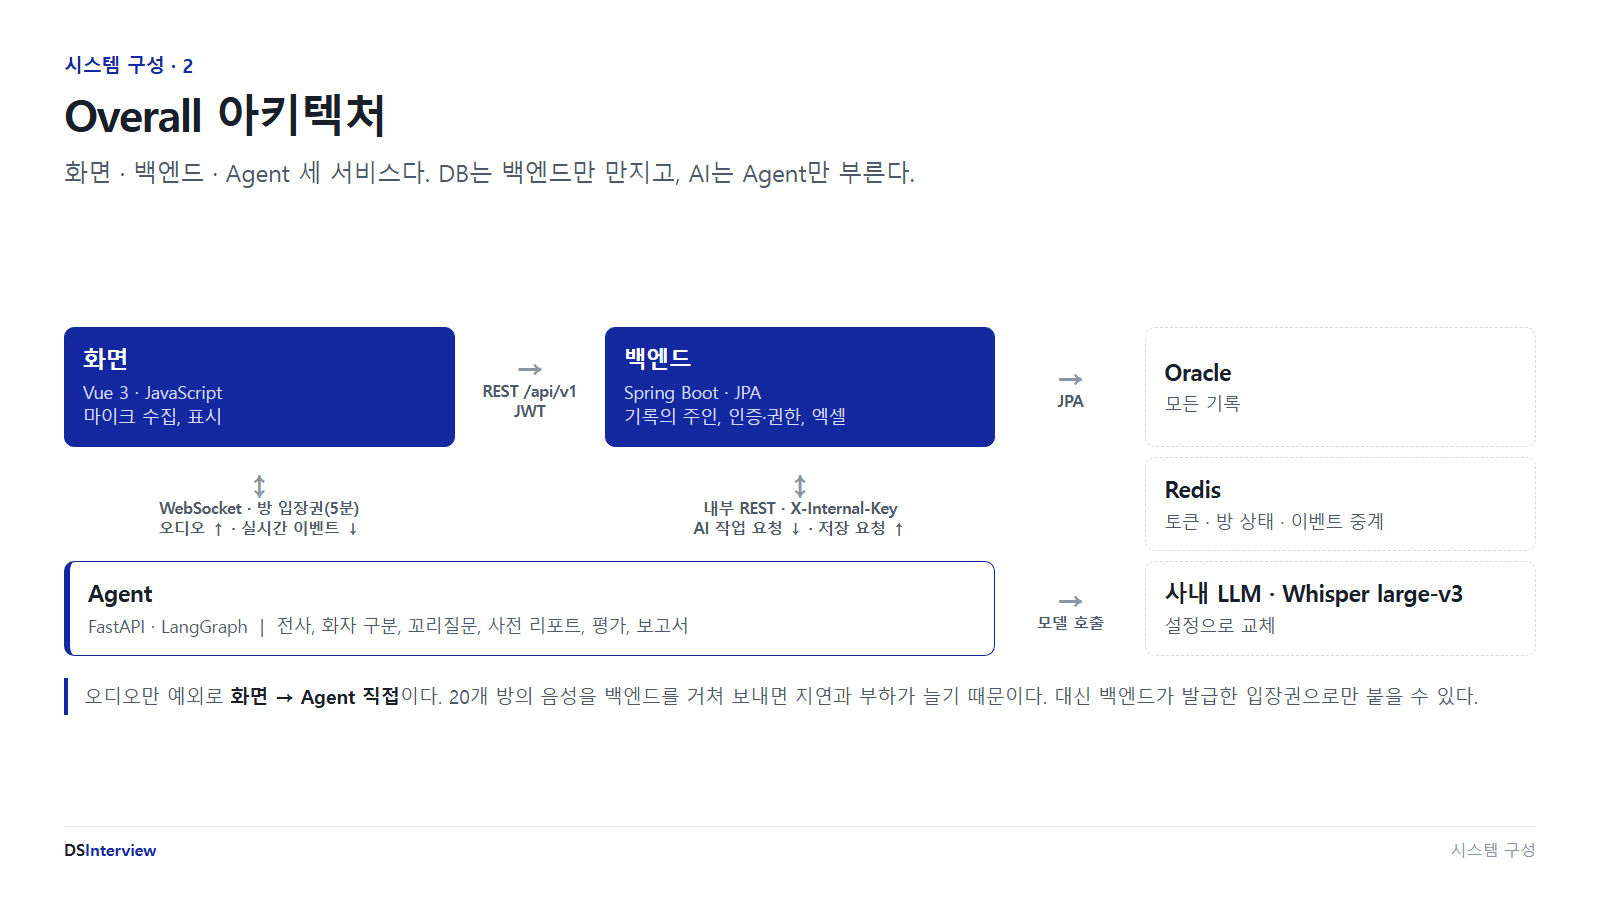
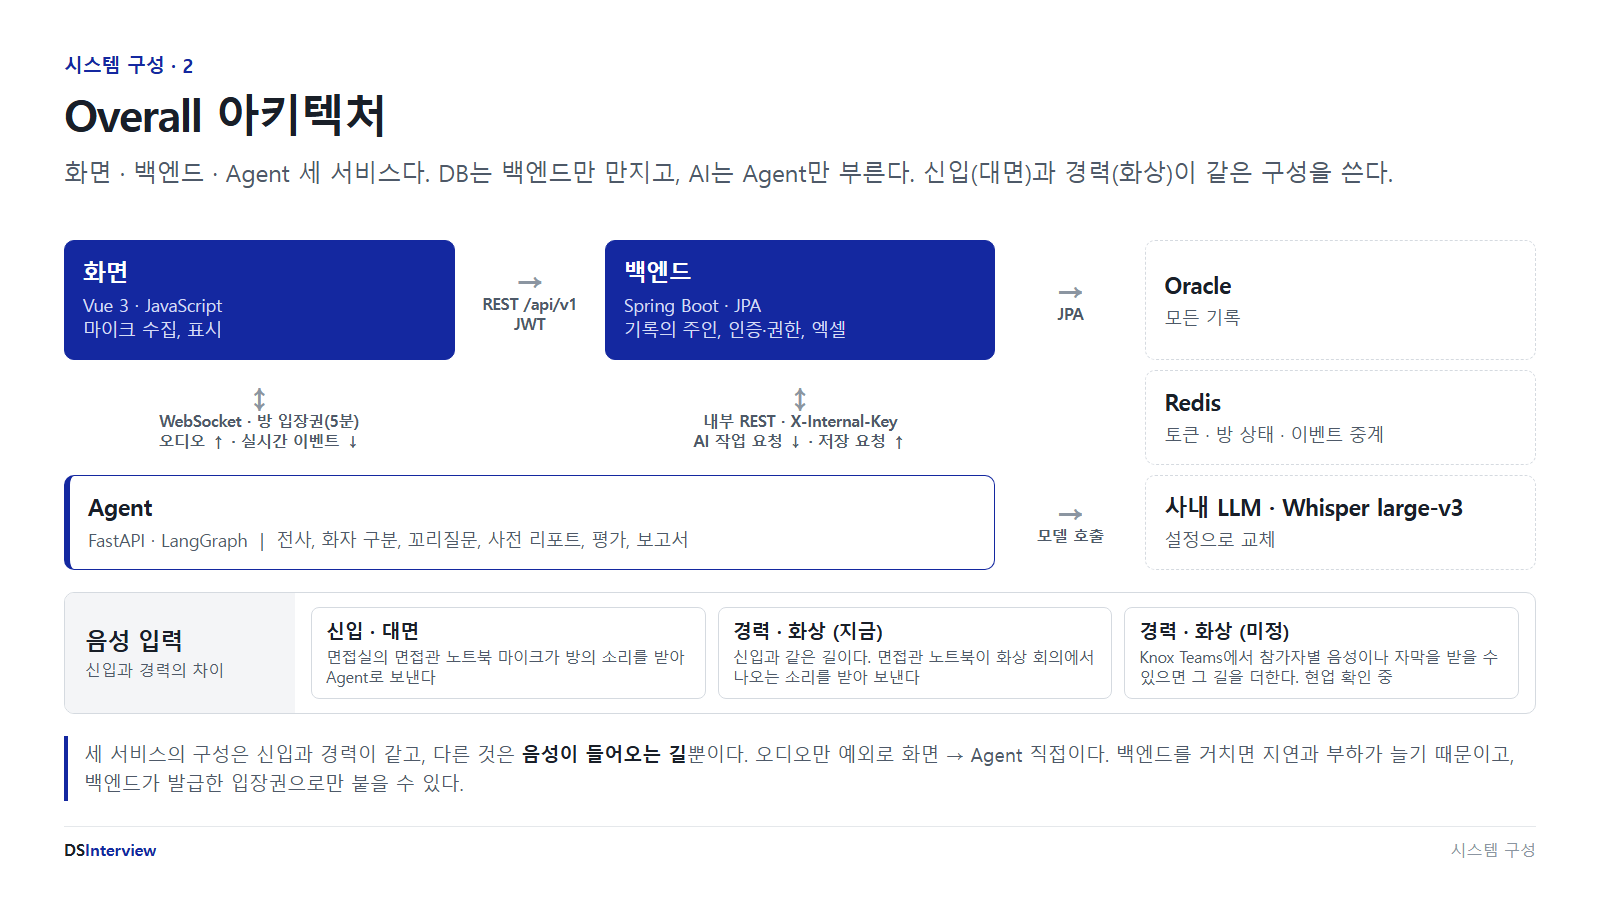
docs: 아키텍처 그림에 신입·경력의 음성 입력 차이를 넣고 화상 면접의 한계를 적는다
- confluence 1-02: 구성은 같고 음성이 들어오는 길만 다르다는 것(신입 대면, 경력 화상 지금, Knox Teams 미정)
- confluence 2-04: Deep Agent가 갖춰야 할 네 가지(계획, 하위 에이전트, 작업 메모, 자세한 지시문)
- 04, 05: 화상 면접은 스피커 소리를 마이크로 다시 받는 방식이라 헤드셋을 쓰면 지원자 목소리가 안 들어온다. 실제 환경에서 확인한 적 없음

diff --git a/confluence/source/gen.py b/confluence/source/gen.py
@@ -147,8 +147,14 @@ arch = ('<div class="grid5">'
         + box('사내 LLM · Whisper large-v3', '설정으로 교체', 'store')
         + '</div>')
 page('s2', G1, '2', 'Overall 아키텍처',
-     '화면 · 백엔드 · Agent 세 서비스다. DB는 백엔드만 만지고, AI는 Agent만 부른다.',
-     arch + note('오디오만 예외로 <b>화면 → Agent 직접</b>이다. 20개 방의 음성을 백엔드를 거쳐 보내면 지연과 부하가 늘기 때문이다. 대신 백엔드가 발급한 입장권으로만 붙을 수 있다.'))
+     '화면 · 백엔드 · Agent 세 서비스다. DB는 백엔드만 만지고, AI는 Agent만 부른다. 신입(대면)과 경력(화상)이 같은 구성을 쓴다.',
+     arch
+     + band('음성 입력', '신입과 경력의 차이', [
+         ('신입 · 대면', '면접실의 면접관 노트북 마이크가 방의 소리를 받아 Agent로 보낸다'),
+         ('경력 · 화상 (지금)', '신입과 같은 길이다. 면접관 노트북이 화상 회의에서 나오는 소리를 받아 보낸다'),
+         ('경력 · 화상 (미정)', 'Knox Teams에서 참가자별 음성이나 자막을 받을 수 있으면 그 길을 더한다. 현업 확인 중'),
+     ])
+     + note('세 서비스의 구성은 신입과 경력이 같고, 다른 것은 <b>음성이 들어오는 길</b>뿐이다. 오디오만 예외로 화면 → Agent 직접이다. 백엔드를 거치면 지연과 부하가 늘기 때문이고, 백엔드가 발급한 입장권으로만 붙을 수 있다.'))
 
 page('s3', G1, '3', '구성요소 · 통신',
      '통신 길은 다섯 가지이고, 길마다 인증 방식이 정해져 있다.',
@@ -217,7 +223,7 @@ page('p03', G2, '3', 'AI 처리 구성',
      ], 5, top=True)
      + band('공통', '모든 그래프', [('금지 항목 필터', '입력에서 지우고 출력을 다시 검사'), ('출력 검증', '형식이 틀리면 한 번 다시 시킴'), ('동시 호출 제한', '모델별 한도, 제한 시간, 재시도'), ('음성 → 글', 'Whisper, 화자 구분 체인')]))
 
-deep = ('<div class="row" style="justify-content:center"><div style="flex:0 0 520px">' + box('조율 에이전트', '무엇이 부족한지 보고 다음 일을 고른다', 'key') + '</div></div>'
+deep = ('<div class="row" style="justify-content:center"><div style="flex:0 0 520px">' + box('조율 에이전트', '할 일을 계획하고, 하위 에이전트에 나눠 맡기고, 결과를 보고 계획을 고친다', 'key') + '</div></div>'
         '<div class="down">↓ ↑</div>'
         + '<div class="row" style="gap:16px">'
         + box('자료 읽기', '이력서 · JD · 질문 은행에서<br>필요한 부분을 찾아 읽는다', 'opt')
@@ -226,8 +232,9 @@ deep = ('<div class="row" style="justify-content:center"><div style="flex:0 0 52
         + box('평가 · 정리', '답변을 기준에 대어 보고<br>보고서로 정리한다', 'opt')
         + '</div>')
 page('p04', G2, '4', 'Deep Agent 구조',
-     '지금은 순서가 정해진 그래프다. 조율 에이전트가 상황을 보고 하위 에이전트를 골라 쓰는 구조를 제안한다.',
-     deep + note('<b>지금</b>: 요약 → JD 질문 → 이력서 질문 → 검사처럼 순서가 고정돼 있어 빠르고 예측하기 쉽다. <b>제안</b>: 결과가 얕으면 자료를 더 읽고 다시 만드는 식으로 스스로 반복한다. 모델 호출이 늘어 느려지므로 시간 여유가 있는 사전 리포트와 경력 상세 보고서부터 적용한다.', True), 'p')
+     '지금은 순서가 정해진 그래프다. 에이전트가 스스로 계획을 세우고 하위 에이전트에 일을 나눠 맡기는 구조를 제안한다.',
+     deep + band('갖춰야 할 것', '네 가지', [('계획', '할 일 목록을 만들고 고쳐 간다'), ('하위 에이전트', '일을 나눠 맡기고 결과만 받는다'), ('작업 메모', '중간 결과를 파일처럼 적어 두고 다시 읽는다'), ('자세한 지시문', '언제 무엇을 쓸지 구체적으로 적는다')])
+     + note('<b>지금</b>: 요약 → JD 질문 → 이력서 질문 → 검사처럼 순서가 고정돼 있어 빠르고 예측하기 쉽다. <b>제안</b>: 결과가 얕으면 자료를 더 읽고 다시 만드는 식으로 스스로 반복한다. 모델 호출이 늘어 느려지므로 시간 여유가 있는 사전 리포트와 경력 상세 보고서부터 적용한다.', True), 'p')
 
 page('p05', G2, '5', '질문 추천 상세 과정',
      'JD와 질문 은행에서 직무 질문을, 이력서에서 경험 질문을 만들고 금지 항목을 걸러 낸다.',

diff --git a/05-open-questions.md b/05-open-questions.md
@@ -16,7 +16,7 @@
 | 4 | 엑셀의 DRM | 해제된 파일이 올라온다. 못 여는 파일은 DRM 가능성을 안내하는 오류로 답한다 | 서버에서 해제해야 하면 backend `upload`에 해제 단계 추가(서버 도메인·IP 기준 권한 신청) |
 | 5 | 면접관 ↔ 면접자 매칭 데이터가 어떻게 오는가 | 임시로 **직무 코드 기준 자동 매칭**(면접관의 담당 직무 = 면접자의 지원 직무, 배정이 적은 사람부터, 면접마다 2명) | 매칭 엑셀이 오면 backend에 `InterviewerMatcher` 구현 추가 + 업로드 통로 |
 | 6 | 경력 면접자 데이터를 API로 받을 수 있는가 | 지금은 신입과 같은 엑셀 경로. API용 변환 클래스(`ApiCandidateSource`)는 자리만 있다 | backend skill `add-candidate-source` |
-| 7 | Knox Teams에서 음성·자막(실시간, 사후)을 API로 받을 수 있는가. 참가자별로 나뉘는가 | 받을 수 없다고 보고, 신입과 같이 **면접관 노트북 브라우저가 소리를 받아** 보낸다 | 받을 수 있으면 agent 오디오 입력과 화자 판정(채널), frontend 면접 방을 듣기 전용 기본으로 |
+| 7 | Knox Teams에서 음성·자막(실시간, 사후)을 API로 받을 수 있는가. 참가자별로 나뉘는가 | 받을 수 없다고 보고, 신입과 같이 **면접관 노트북 브라우저가 소리를 받아** 보낸다. 이 방식은 스피커에서 나오는 지원자 목소리를 마이크로 다시 받는 것이라, 면접관이 헤드셋을 쓰면 지원자 목소리가 들어오지 않는다. 실제 화상 환경에서 확인한 적이 없다(2026-11-18). 경력 흐름(5주 차) 전에 답이 필요하다 | 받을 수 있으면 agent 오디오 입력과 화자 판정(채널), frontend 면접 방을 듣기 전용 기본으로 |
 | 8 | 면접실 마이크 구성(한 대 / 지원자용·면접관용 분리) | 방마다 마이크 한 대(면접관 노트북) | 분리 가능하면 [04-speaker-separation.md](04-speaker-separation.md) 5장 |
 | 9 | 평가 항목과 등급 체계, 채용 시스템 입력 화면(캡처) | 트랙·유형별 4개 항목, 5점 만점, 등급은 A~D(자유 문자열 저장). 평가 내용을 한 덩어리 글로 복사 | backend 평가 항목 데이터, frontend `MyEvaluationPanel.vue` |
 | 10 | 보고서 양식(신입 간단 / 경력 상세의 항목) | 신입: 한 줄 총평, 코멘트, 강점, 우려, 주요 문답. 경력: 여기에 역량별 분석, 이력 확인, 다음 차수 확인점, 리스크 | API 명세 4.3의 `ReportContent`, agent `report` 그래프·프롬프트, frontend `ReportView.vue` |

diff --git a/04-speaker-separation.md b/04-speaker-separation.md
@@ -87,6 +87,8 @@ LLM이 대화를 받을 때의 모양: 평가·보고서·꼬리질문 프롬프
 2. 받을 수 없으면 면접관 PC에서 "내 마이크"와 "화상에서 나오는 소리"를 따로 잡아 보내는 방법을 검토한다(프론트·API 변경).
 3. 둘 다 안 되면 신입과 같은 자동 체인. 상세 보고서는 사후 STT의 재판정 결과(보정본)를 기준으로 삼는다.
 
+지금은 3번으로 만들어져 있다. 면접관 노트북의 마이크가 스피커에서 나오는 지원자 목소리를 다시 받는 방식이라, **면접관이 헤드셋을 쓰면 지원자 목소리가 들어오지 않는다.** 스피커로 듣더라도 소리가 울리거나 작게 잡힐 수 있다. 실제 화상 환경에서 확인한 적이 없으므로, 경력 흐름(5주 차)을 시작하기 전에 1번의 답을 받거나 2번을 만들어야 한다([05-open-questions.md](05-open-questions.md) 7번).
+
 ## 6. 더 나아지게 하는 방법
 
 지금의 판정 체인(2장)을 그대로 두고 정확도를 올릴 수 있는 길이다. 효과가 큰 순서로 적는다.
